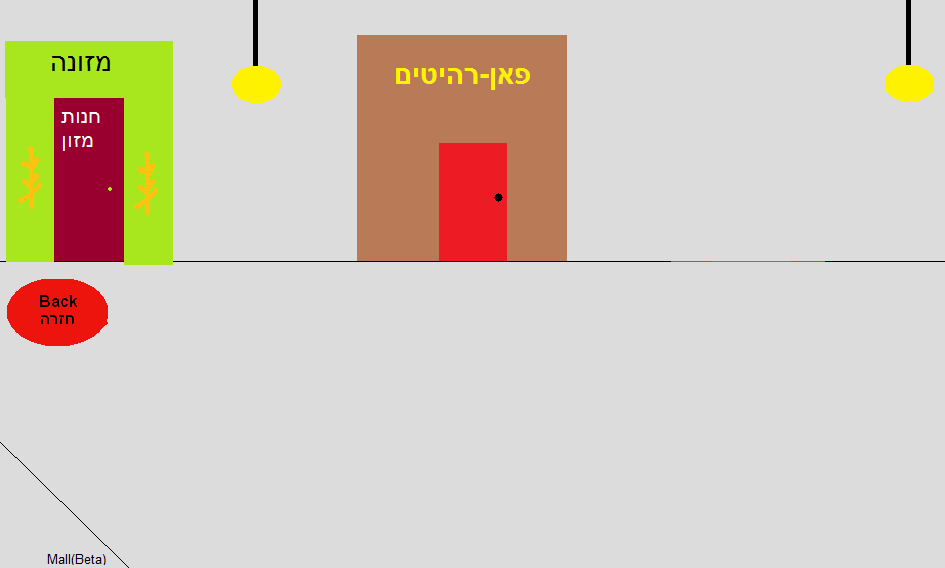
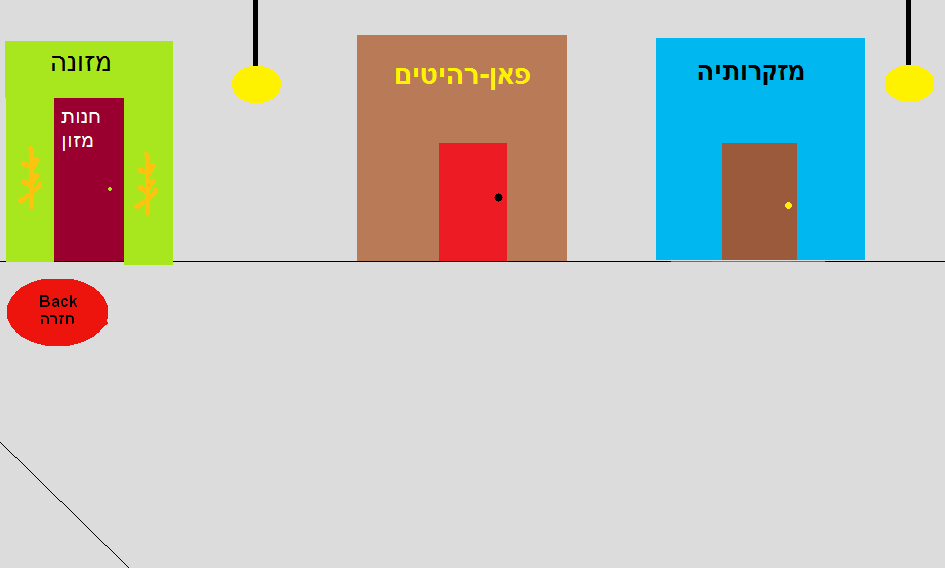
Update 2

Changed region(s): [[0.6751, 0.0599, 0.9206, 0.4789], [0.0307, 0.9577, 0.1228, 1.0]]

diff --git a/system/application/views/mainpage_view.php b/system/application/views/mainpage_view.php
@@ -5,19 +5,35 @@
 ?>
 
 		<div dir='rtl' align="center">
-		<br>
+		<br>שלום וברוכים הבאים לחדשות האתר כאן אנחנו נעדכן אותכם בדברים חדשים באתר כל יום יש חידושים.
+		<br><br>
 		<div style="background: cyan; width: 900; font-family: Arial;">
 		<b>חדשות האתר</b>
 		<br>
 		<br>
-		25/8/09:
+		25/8/09:<br>
 		
 		היום אנחנו נתחיל למסור חדשות על עידכונים.<br>
 		לוגו האתר שונה<br>
 		היום הוחלט לשנות את הגרפיקה של הרחובות התחלנו עם הרחוב הראשון אולי בעוד שבוע נסיים עם כל הרחובות.<br>
 		פאן וורלד ליף אכשיו בתקופת עידכונים בזמן האחרון אתם תיראו הרבה עידכונים.<br>
 		
+		<br>
+		<br>
+		26/8/09:<br>
 		
+		היום נוסף טולבר שמיתחת הרחוב שנותן מידע איפה אתה נימצא ומה המזג אוויר.<br>
+		מתוקן באג שלא היה אפשר ליראות את המוצרים בבתים.<br>
+		מוצרים חדשים:
+		<br>
+		<img src="<?php print base_url(); ?>images/products/fire_place.png"> <br>נמצא בחנות הרהיטים
+		<br>
+		<br>
+		נוסף חנות חדשה שקוראים לה חנות מזקרות
+		<br>
+		ובה יש את מוצר זה:
+		<br>
+		<img src="<?php print base_url(); ?>images/products/Funworldlife Necales.png">
 		
 		</div>
 		<br>

diff --git a/system/application/controllers/shops.php b/system/application/controllers/shops.php
@@ -13,6 +13,7 @@ class Shops extends Funworldlife
 		$this->categories = array(
 			'food' => array('מזונה - חנות מזון', 'shopkeeperfood.png'),
 			'fre' => array('פאן רהיטים - חנות רהיטים', ''),
+			'sovi' => array('מזקרותיה - חנות מזקרות', ''),
 /*
 			'pet' => 'חנות חיות',
 			'telepone' => 'חנות טלפון', 

diff --git a/system/application/controllers/mall.php b/system/application/controllers/mall.php
@@ -39,6 +39,16 @@ $map = array(
 		"height" => 228 
 	),
 	
+		array( 
+		"id" =>  "shop_sovi", 
+		"href" => "shops/shop/sovi", 
+		"title" => "מזקרותיה - חנות מזקרות",
+		"left" => 656, 
+		"top" => 37, 
+		"width" => 209,
+		"height" => 228 
+	),
+	
 	array( 
 		"id" =>  "back", 
 		"href" => "welcome", 
